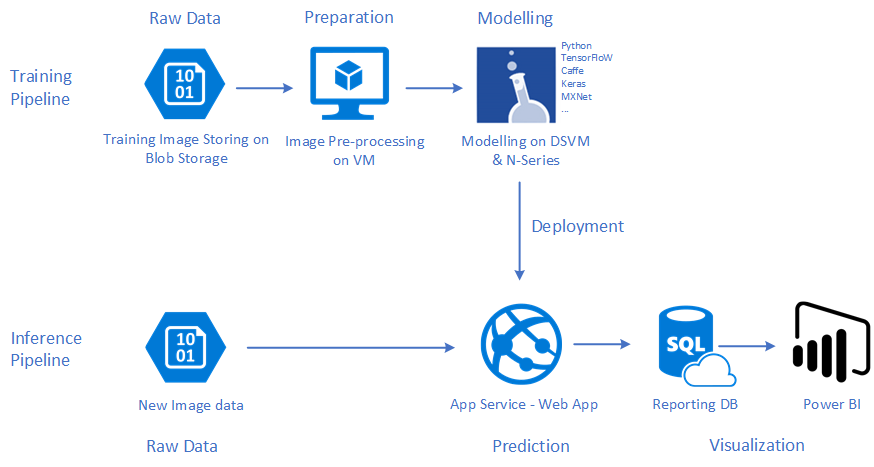
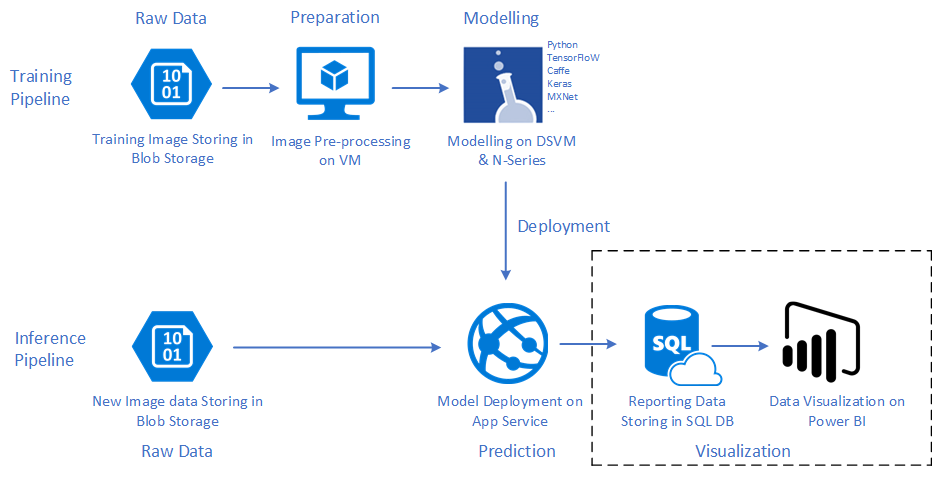
Update Arch and English link.

diff --git a/AI/ImageClassification/Deploy/README.md b/AI/ImageClassification/Deploy/README.md
@@ -1,20 +1,21 @@
-# 部署解决方案
+# 部署解决方案 [English](README-EN.md)
 本方案提供了可部署在自有Azure订阅的解决方案部署包，通过部署解决方案，用户可以深入了解如何利用Azure云服务实现图像分类的业务场景，并可以通过修改部署包中的样本数据或修改训练代码等快速搭建自己的Demo。
 
 解决方案架构图如下，包括两个流程：
 1. 训练流程
 2. 部署流程
 
-![ImageClassification Architecture](ImageClassificationArch.png "Architecture")
+![ImageClassification Architecture](ImageClassificationArchCN.png "Architecture")
 
-在本目录下包含两个文件夹，分别是对应于这两个流程的部署包。
+在本目录下包含两个文件夹，分别是对应于这两个流程的部署包。图中黑框所示的可视化部分不包含在内。
 
 **TrainingDSVM** 对应于训练流程。按照文档部署后，会在你的Azure订阅中自动创建出一个数据科学虚拟机(DSVM)。所有训练需要用到的依工具和依赖包都会自动安装好，代码和样本数据也都会部署在数据科学虚拟机中。在部署完成之后，用户就可以直接在 Jupyter Notebook 中探索代码和数据。
 
 
-**PredictWebApps** 对应于部署流程。按照文档部署后，会在你的Azure订阅创建一个 Web 应用，网页如下图所示：
+**PredictWebApps** 对应于部署流程。按照文档部署后，会在你的Azure订阅创建一个带模型的 Web 应用，网页如下图所示：
 
  ![WebPage](PredictWebApps/webPage.png "Web Page")
 
 用户可以通过上传图片试用这个预测的API, 也可以参考这个网页从任意客户端调用API。
+
 

diff --git a/AI/ImageClassification/Deploy/README-en.md b/AI/ImageClassification/Deploy/README-en.md
@@ -7,12 +7,13 @@ As our Architecure shows as following, there are two pipelines:
 
 ![ImageClassification Architecture](ImageClassificationArch.png "Architecture")
 
+It contains two folders here, which map to these two pipelines. Black box in above achiteture not included here.
 **TrainingDSVM** is mapping to traning pipline. 
 Using these deploy scripts, you can create an Data Science Virtual Machine ( DSVM ) in your subscription. 
 All dependencs will installed automaticly. Code will be copied into this DSVM as well. You can explore sample code and data in Jupyter Notebook just after deployment.
 
 **PredictWebApps** is mapping to inferecne pipline.
-Following these deploy steps, you can create an WebApps with a sample web page.
+Following these deploy steps, you can create an WebApps with a sample web page and build-in model fiels.
 The web page looks like following:
 
  ![WebPage](PredictWebApps/webPage.png "Web Page")

diff --git a/AI/ImageClassification/Deploy/PredictWebApps/README.md b/AI/ImageClassification/Deploy/PredictWebApps/README.md
@@ -1,4 +1,4 @@
-# 如何部署 PredictWebApps
+# 如何部署 PredictWebApps [English](README-EN.md)
 
 本解决方案包括两个流程：
 1. 训练流程

diff --git a/AI/ImageClassification/Deploy/TrainingDSVM/README.md b/AI/ImageClassification/Deploy/TrainingDSVM/README.md
@@ -1,4 +1,4 @@
-# 如何部署 TrainingDSVM
+# 如何部署 TrainingDSVM [English](README-EN.md)
 
 本解决方案包括两个流程：
 1. 训练流程
